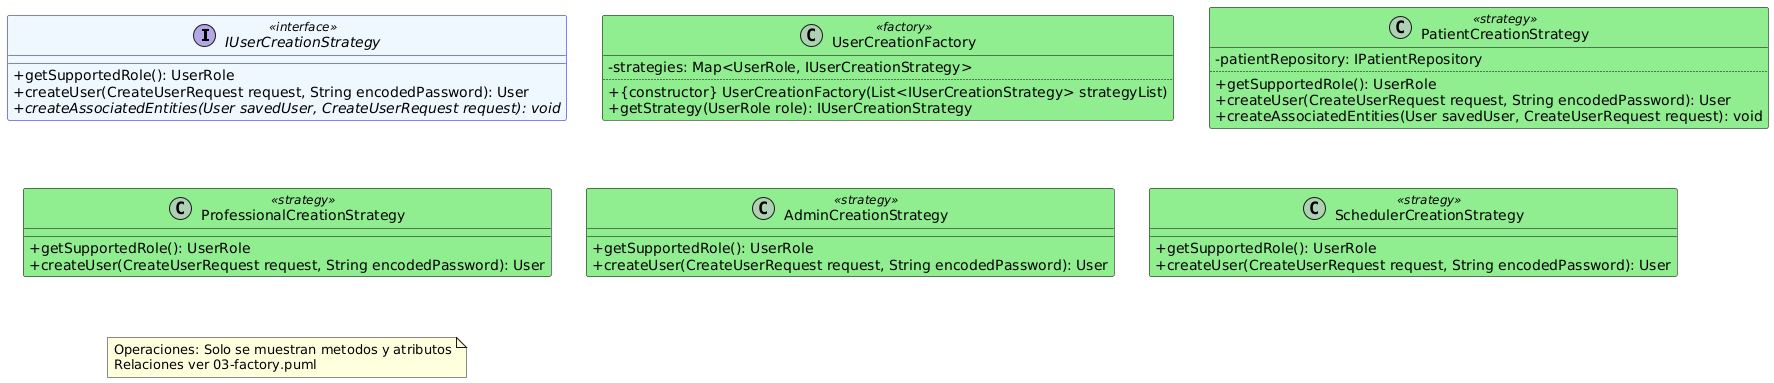
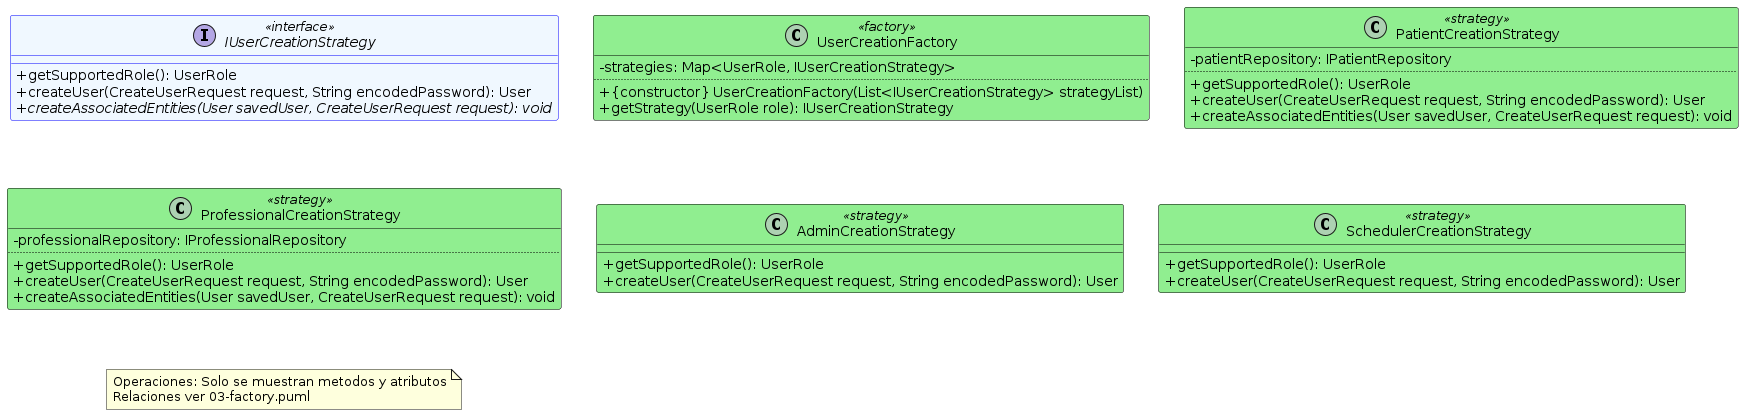
docs(users-service): update docs and UML for Professional entity creation fix
- README: factory pattern note, test count 72, E1-US1 updated
- Factory UML relations: ProfessionalCreationStrategy now shows
  IProfessionalRepository dependency and createAssociatedEntities()
- Factory UML operations: added professionalRepository field and method
- PNGs regenerated

Changed region(s): [[0.0, 0.0, 1.0, 0.3446], [0.0, 0.4308, 0.9908, 0.7467], [0.0619, 0.8616, 0.2787, 1.0]]

diff --git a/services/users-service/README.md b/services/users-service/README.md
@@ -53,10 +53,10 @@ UserCreationFactory
 ├── AdminCreationStrategy       → Crea usuarios ADMIN
 ├── SchedulerCreationStrategy   → Crea usuarios SCHEDULER
 ├── PatientCreationStrategy     → Crea pacientes (con entidad Patient asociada)
-└── ProfessionalCreationStrategy → Crea profesionales médicos
+└── ProfessionalCreationStrategy → Crea profesionales médicos (con entidad Professional asociada)
 ```
 
-Cada estrategia valida los campos específicos de su rol y, en el caso de PATIENT, crea la entidad asociada (`Patient`) vía `createAssociatedEntities()`.
+Cada estrategia valida los campos específicos de su rol. Las estrategias `PatientCreationStrategy` y `ProfessionalCreationStrategy` además crean las entidades asociadas (`Patient` o `Professional`) vía `createAssociatedEntities()`.
 
 ---
 
@@ -217,6 +217,7 @@ Puerto por defecto: **8081**.
 | Registro exitoso con datos válidos | ✅ Cubierto |
 | Rechazo por campos obligatorios faltantes | ✅ Cubierto |
 | Rechazo por login duplicado | ✅ Cubierto |
+| Rol médico con datos profesionales (specialty, licenseNumber) | ✅ Cubierto |
 | Rol médico sin asociación profesional | ⏳ Pendiente (integración con professionals-service) |
 | Rechazo por contraseña inválida | ✅ Cubierto |
 
@@ -284,11 +285,13 @@ mvn test -Dtest="com.medical.integration.UsersServiceIntegrationTest"
 | Tipo | Tests | Pasan | Saltados |
 |------|:-----:|:-----:|:--------:|
 | Unit (service) | 36 | 36 | 2 |
-| Unit (factory) | 16 | 16 | 0 |
+| Unit (factory) | 17 | 17 | 0 |
 | Integration | 19 | 19 | 0 |
-| **Total** | **71** | **71** | **2** |
+| **Total** | **72** | **72** | **2** |
 
 > Los 2 tests saltados corresponden a escenarios pendientes de integración con `professionals-service`.
+> 
+> ✅ Fix aplicado: `ProfessionalCreationStrategy` ahora crea la entidad `Professional` asociada al registrar un usuario PROFESSIONAL, resolviendo el gap productivo donde el profesional se creaba sin sus datos específicos (specialty, licenseNumber).
 
 ### Convenciones de Tests
 